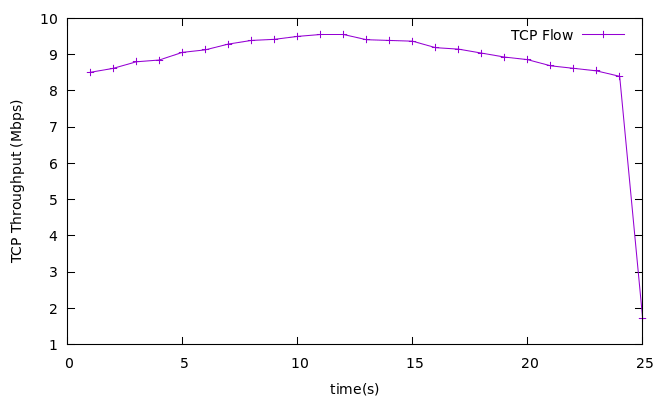
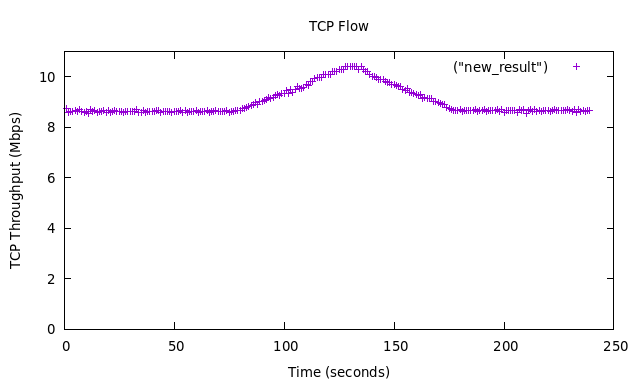
overlapping range with io-graph

diff --git a/ThroughputGp/moveNode.py b/ThroughputGp/moveNode.py
@@ -10,7 +10,7 @@ def topology():
 
     info('**Creating Nodes**\n')
     h1 = net.addHost('h1', mac='00:00:00:00:00:01', ip='10.0.0.1/8')
-    sta1 = net.addStation('sta1', mac='00:00:00:00:00:02', ip='10.0.0.2/8', range=20)
+    sta1 = net.addStation('sta1', mac='00:00:00:00:00:02', ip='10.0.0.2/8', range=30)
     ap1 = net.addAccessPoint('ap1', ssid='api-ssid', mode='g', channel='1', position='80,40,0', range=30)
     c1 = net.addController('c1')
     net.setPropagationModel(model="logDistance", exp=4.5)
@@ -24,9 +24,9 @@ def topology():
     net.plotGraph(max_x=180, max_y=180)
 
     net.startMobility(time=0)
-    net.mobility(sta1, 'start', time=60, position='20,50,0')
-    net.mobility(sta1,'stop', time=119, position='140,50,0')
-    net.stopMobility(time=120)
+    net.mobility(sta1, 'start', time=100, position='60,41,0')
+    net.mobility(sta1,'stop', time=199, position='100,41,0')
+    net.stopMobility(time=200)
 
     info('**Starting Network\n')
     net.build()
